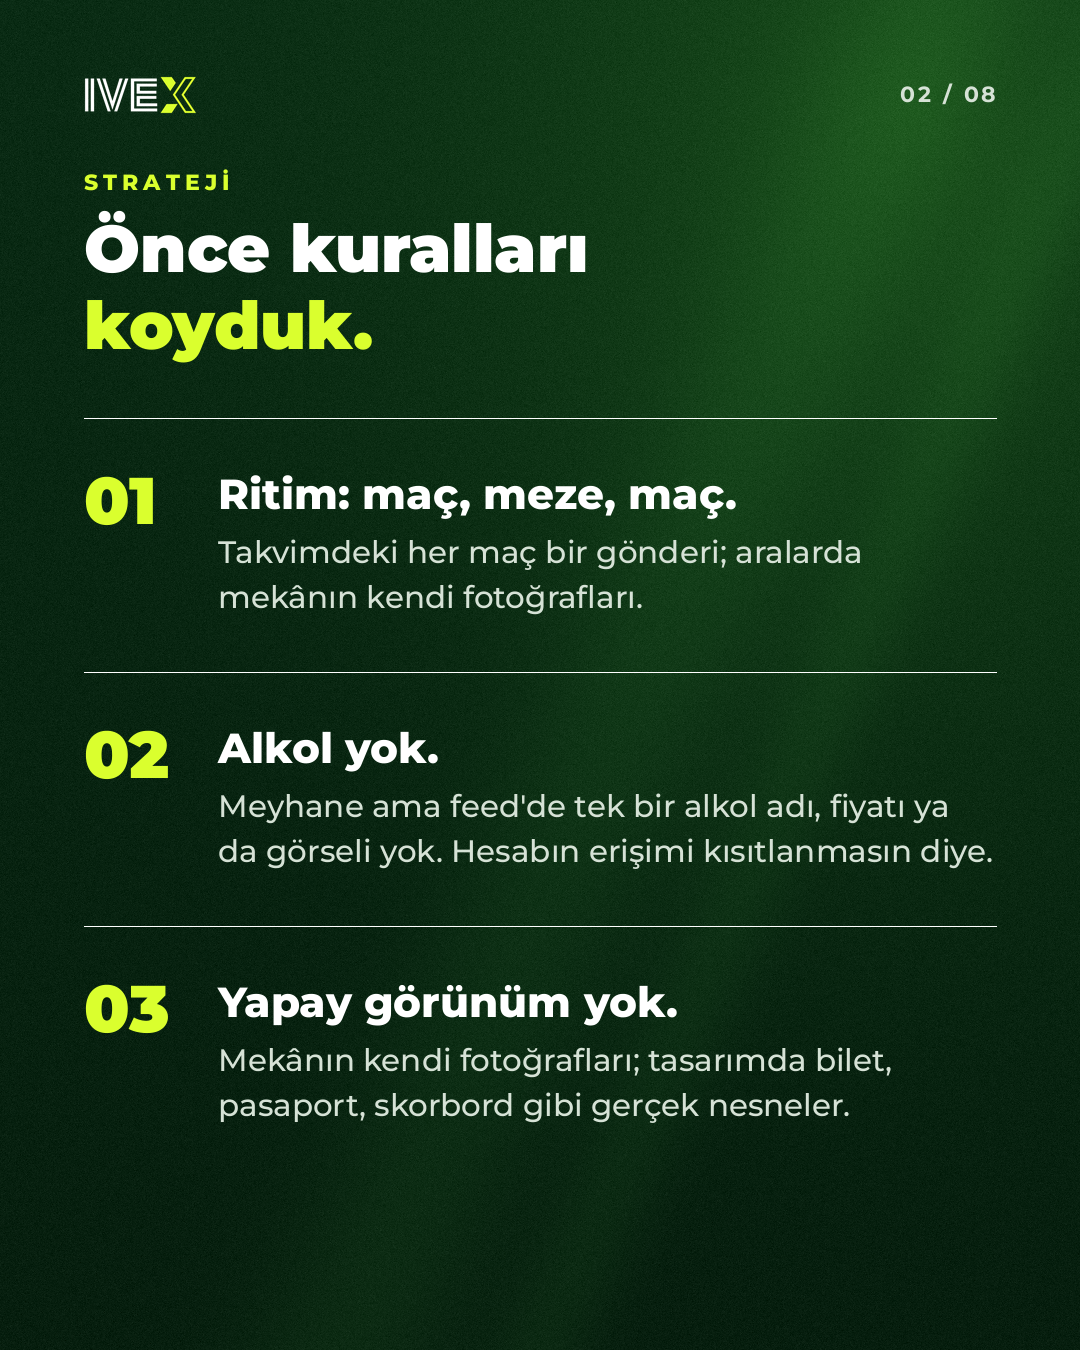
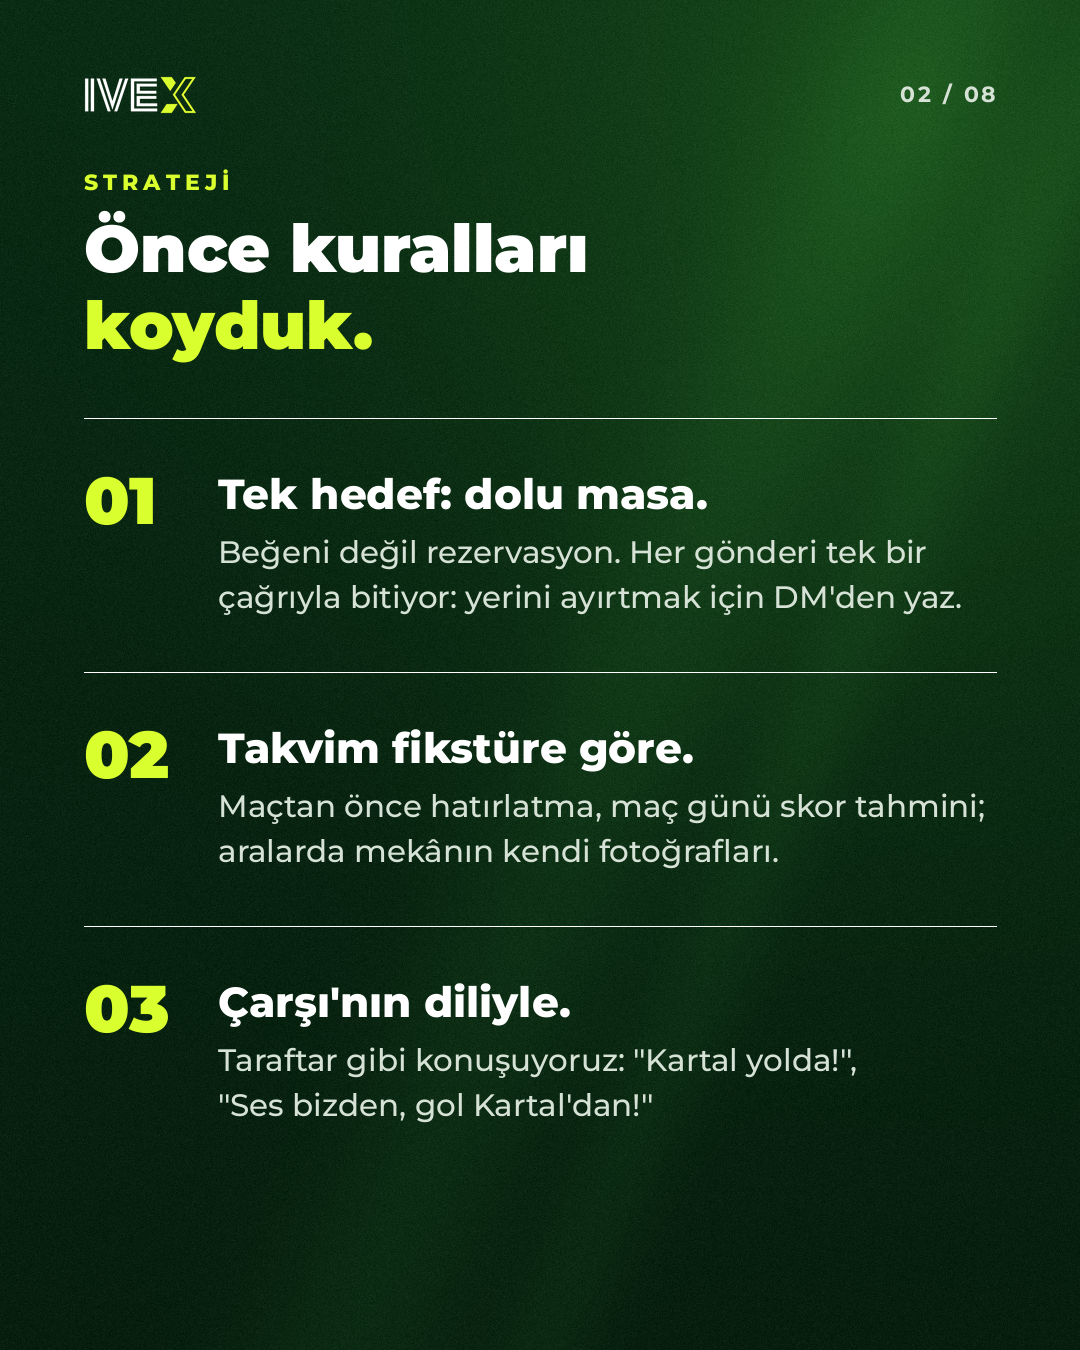
Give the IVEX carousel strategy slide three new points
"Tek hedef: dolu masa", "Takvim fikstüre göre" and "Çarşı'nın diliyle"
replace the old rules; the word wrap now honours no-break spaces so the
quoted slogans stay on one line.

Claude-Session: https://claude.ai/code/session_01XJxz6TxayURknP2UowWRAx

Changed region(s): [[0.1833, 0.5289, 0.9167, 0.6533], [0.1833, 0.3422, 0.8861, 0.4667], [0.1833, 0.7156, 0.825, 0.84]]

diff --git a/ivex-icerik/uretim/vaka_karusel.py b/ivex-icerik/uretim/vaka_karusel.py
@@ -26,8 +26,9 @@ def rich(d, x, y, text, fnt, color=WHITE, hi=LIME, anchor="l"):
 
 
 def wrap(d, text, fnt, max_w):
+    """Greedy word wrap on plain spaces; a no-break space (U+00A0) keeps words on one line."""
     lines, cur = [], ""
-    for word in text.split():
+    for word in text.split(" "):
         t = (cur + " " + word).strip()
         if d.textlength(t.replace("*", ""), font=fnt) <= max_w or not cur:
             cur = t

diff --git a/ivex-icerik/PAYLASIM-PLANI.md b/ivex-icerik/PAYLASIM-PLANI.md
@@ -45,7 +45,7 @@ Bir işletmenin 9 günlük içeriğini 1 günde nasıl oluşturduk? ⚫⚪
 Mekan Sizin, Beşiktaş Çarşı'da maç izlemenin adresi. Hedef netti: maç günleri masaları doldurmak.
 
 Kaydır, uyguladığımız sistemi gör:
-→ Önce kurallar: alkol yok, yapay görünüm yok
+→ Önce strateji: tek hedef dolu masa, takvim fikstüre göre, Çarşı'nın diliyle
 → Maç, meze, maç ritmi
 → Her maçın kendi konsepti: bilet, pasaport, biniş kartı, skorbord
 → Yorum toplayan gönderiler ve algoritma notları
